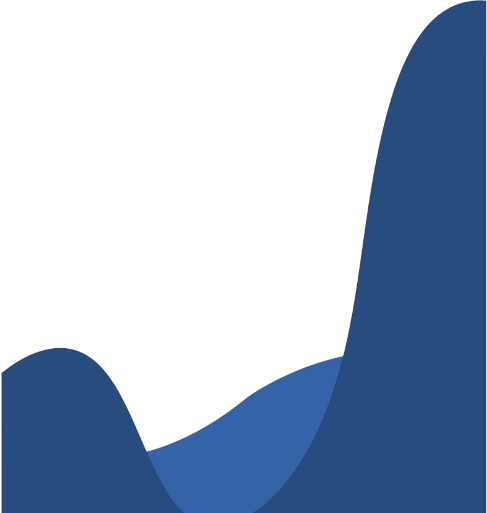
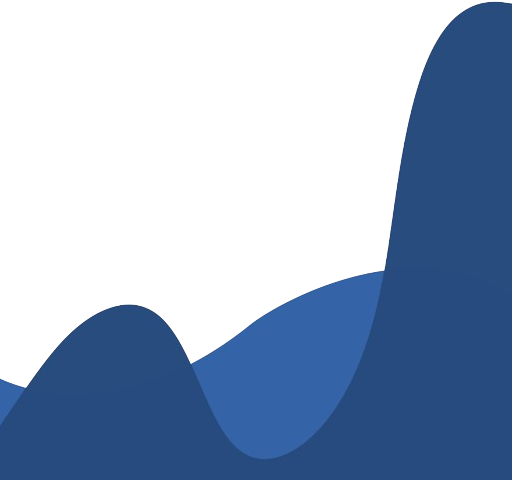
Alterações na pagina video inicial. Dimencionei o fundo, e o reposicionei.

diff --git a/Frontend/Style/style.css b/Frontend/Style/style.css
@@ -463,7 +463,7 @@ header {
     font-size: 45px;
 }
 .backgroundCadastro {
-    background-color: #3464A7;
+    background-color: #023859;
     border-radius: 25px;
     justify-content: center;
     margin: auto;
@@ -496,10 +496,11 @@ header {
     padding: 3% 5%;
     padding-top: 10px;
     padding-bottom: 10px;
-    background-color: #274B7D;
+    background-color: #023859;
     border-radius: 10px;
-    border: solid #274B7D;
+    border: solid #02273d;
     color: white;
+    margin: 5px;
 }
 #botaoContinuar:hover {
     background-color: #1e314b;
@@ -507,7 +508,8 @@ header {
 .textoOu {
     color: white;
     text-align: center;
-    margin: -5px;
+    margin: -10px;
+    margin-bottom: -15px;
 }
 .textoLogin {
     color: white;
@@ -588,8 +590,9 @@ header {
 }
 .fundoSerieInicial{
     position: fixed;
-    width: 360px;
-    z-index: -9999;
+    width: 97%;
+    
+    z-index: -2;
     left: 0;
     bottom: 0;
 }

diff --git a/Frontend/Estrutura/indexCadastro.html b/Frontend/Estrutura/indexCadastro.html
@@ -63,8 +63,8 @@
                     <div class="textoOu">
                         <p>ou</p>
                     </div>
-                    <div class="textoLogin">
-                        <p>LOGIN</p>
+                    <div class="botaoCadastro">
+                        <button id="botaoContinuar">Login</button>
                     </div>
                 </form>
             </div>
